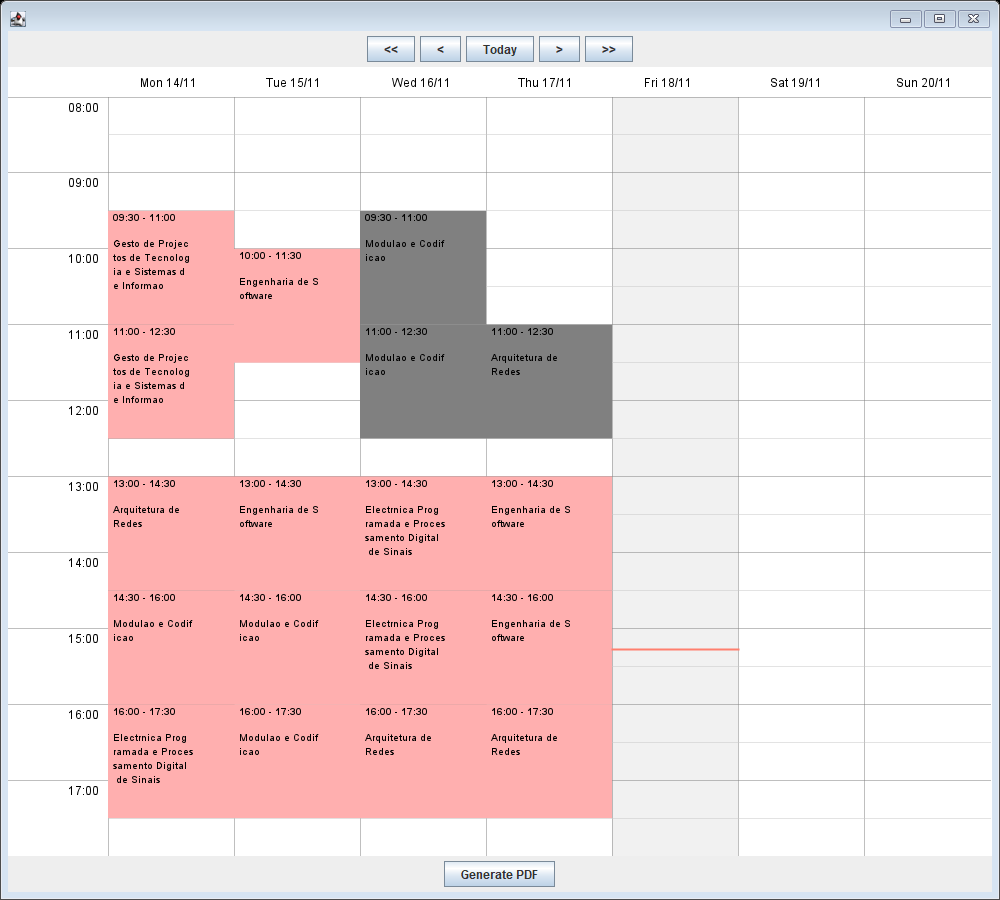
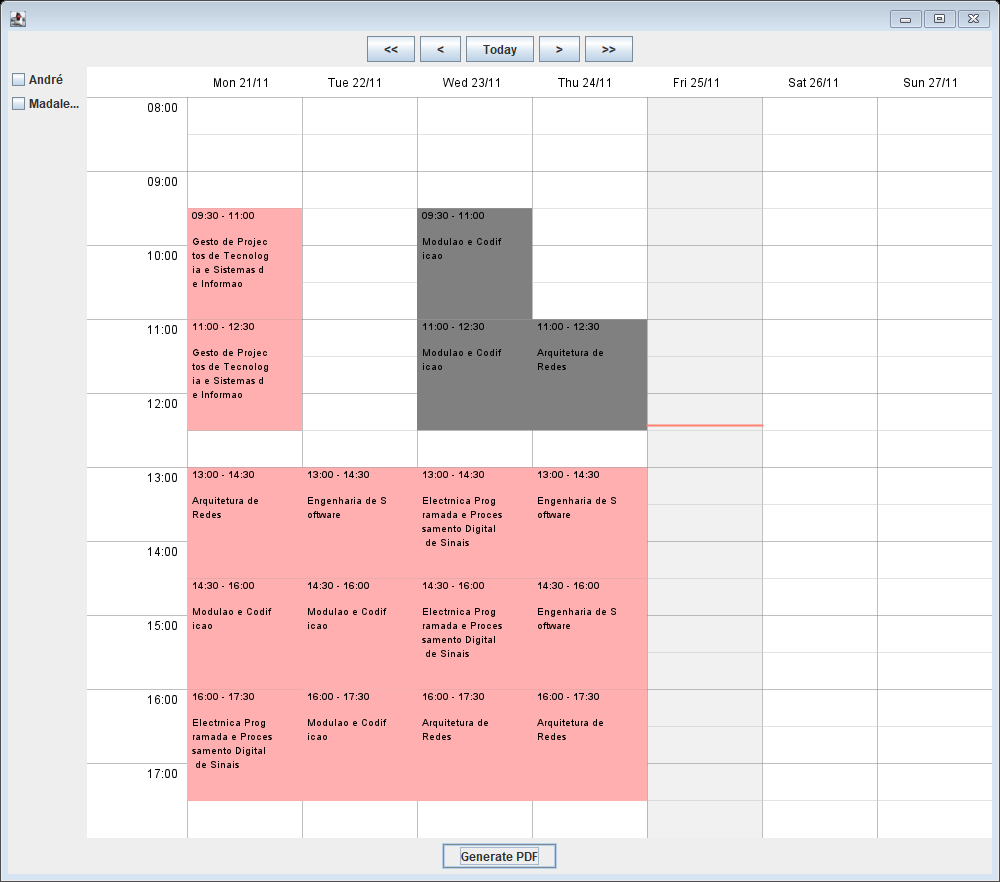
Adding fully functional "Generate PDF" button to JFrame

diff --git a/ES_Project/src/main/java/WeekCalendarTest.java b/ES_Project/src/main/java/WeekCalendarTest.java
@@ -11,8 +11,8 @@ public class WeekCalendarTest {
 	public static void main(String[] args) throws ParseException, IOException, DocumentException {
 
 		ArrayList<User> users = new ArrayList<User>();
-		User andre = new User("andre.json", Color.GRAY);
-		User madalena = new User("madalena.json", Color.PINK);
+		User andre = new User("André", "andre.json", Color.GRAY);
+		User madalena = new User("Madalena", "madalena.json", Color.PINK);
 		users.add(andre);
 		users.add(madalena);
 		ArrayList<CalendarEvent> events = new ArrayList<>();
@@ -46,9 +46,22 @@ public class WeekCalendarTest {
 		prevMonthBtn.addActionListener(e -> cal.prevMonth());
 
 		JButton toPDFButton = new JButton("Generate PDF");
-
+		toPDFButton.addActionListener(e -> {
+			try {
+				JFrameToPDF.JFrameToPDF(frm);
+			} catch (IOException | DocumentException e1) {
+				e1.printStackTrace();
+			}
+		});
+		
 		JPanel PDFcontrol = new JPanel();
 		PDFcontrol.add(toPDFButton);
+		
+		JPanel checkBoxes = new JPanel();
+		checkBoxes.setLayout(new BoxLayout(checkBoxes, BoxLayout.Y_AXIS));
+		for(User u: users) {
+			checkBoxes.add(new JCheckBox(u.getUserName()));
+		}
 
 		JPanel weekControls = new JPanel();
 		weekControls.add(prevMonthBtn);
@@ -59,13 +72,13 @@ public class WeekCalendarTest {
 
 		frm.add(weekControls, BorderLayout.NORTH);
 		frm.add(PDFcontrol, BorderLayout.SOUTH);
+		frm.add(checkBoxes, BorderLayout.WEST);
 
 		frm.add(cal, BorderLayout.CENTER);
-		frm.setSize(1000, 900);
+		frm.setSize(1500, 800);
 		frm.setVisible(true);
 		frm.setDefaultCloseOperation(WindowConstants.EXIT_ON_CLOSE);
 		
-		JFrameToPDF.JFrameToPDF(frm);
 	}
 
 }

diff --git a/ES_Project/src/main/java/CheckboxListCellRenderer.java b/ES_Project/src/main/java/CheckboxListCellRenderer.java
@@ -1,0 +1,22 @@
+import java.awt.Component;
+
+import javax.swing.JCheckBox;
+import javax.swing.JList;
+import javax.swing.ListCellRenderer;
+
+public class CheckboxListCellRenderer extends JCheckBox implements ListCellRenderer {
+
+    public Component getListCellRendererComponent(JList list, Object value, int index, 
+            boolean isSelected, boolean cellHasFocus) {
+
+        setComponentOrientation(list.getComponentOrientation());
+        setFont(list.getFont());
+        setBackground(list.getBackground());
+        setForeground(list.getForeground());
+        setSelected(isSelected);
+        setEnabled(list.isEnabled());
+        setText(value == null ? "" : value.toString());  
+
+        return this;
+    }
+}

diff --git a/ES_Project/src/main/java/User.java b/ES_Project/src/main/java/User.java
@@ -6,12 +6,14 @@ import java.util.ArrayList;
 
 public class User {
 
+	private String userName;
 	private String fileName;
 	private Color colorPreference;
 
-	public User(String fileName, Color colorPreference) {
+	public User(String userName, String fileName, Color colorPreference) {
 		this.fileName = fileName;
 		this.colorPreference = colorPreference;
+		this.userName = userName;
 	}
 
 	public String getFileName() {
@@ -81,6 +83,10 @@ public class User {
 		if (index >= 0)
 			str = str.substring(0, index);
 		return str;
+	}
+	
+	public String getUserName() {
+		return this.userName;
 	}
 
 }
